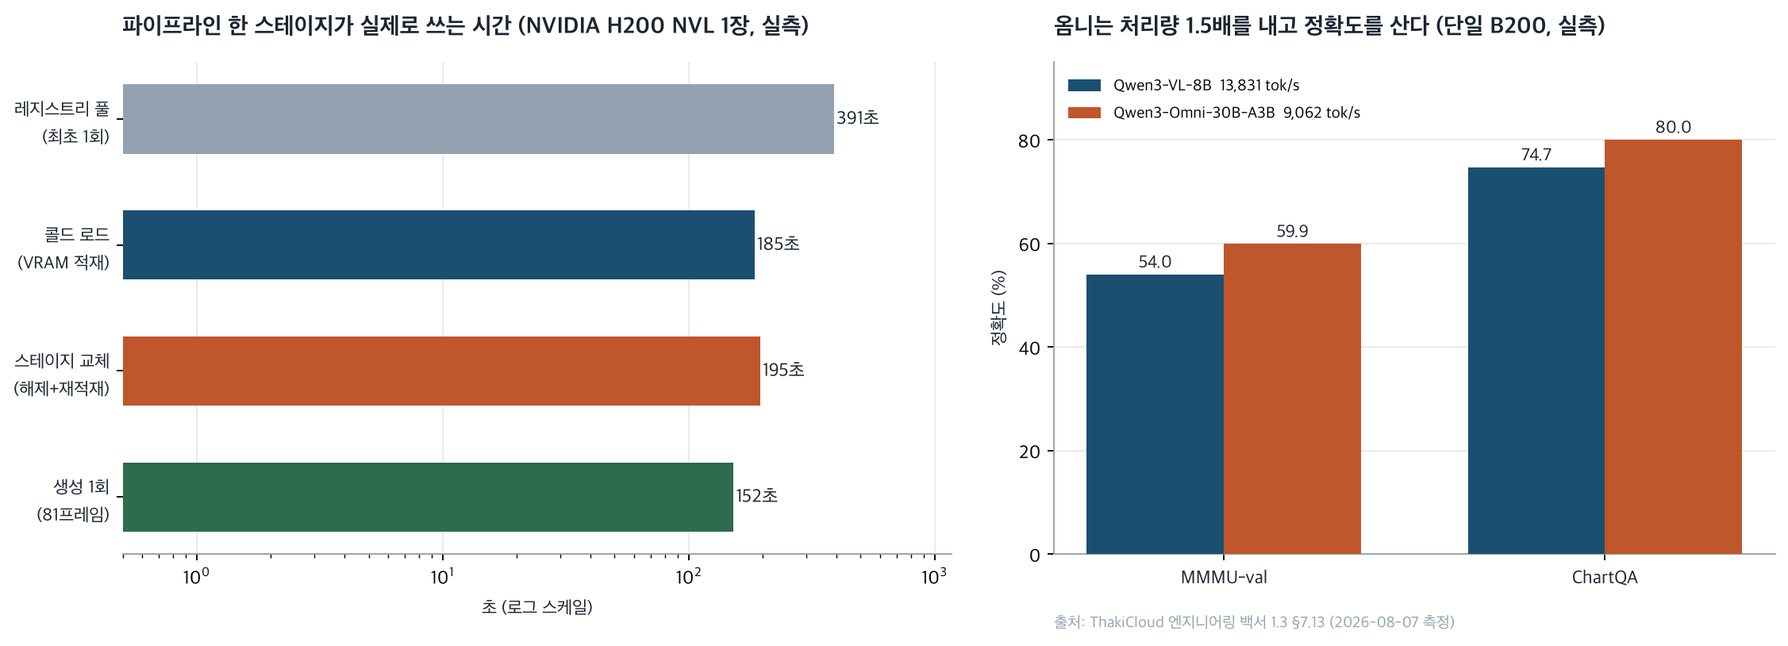
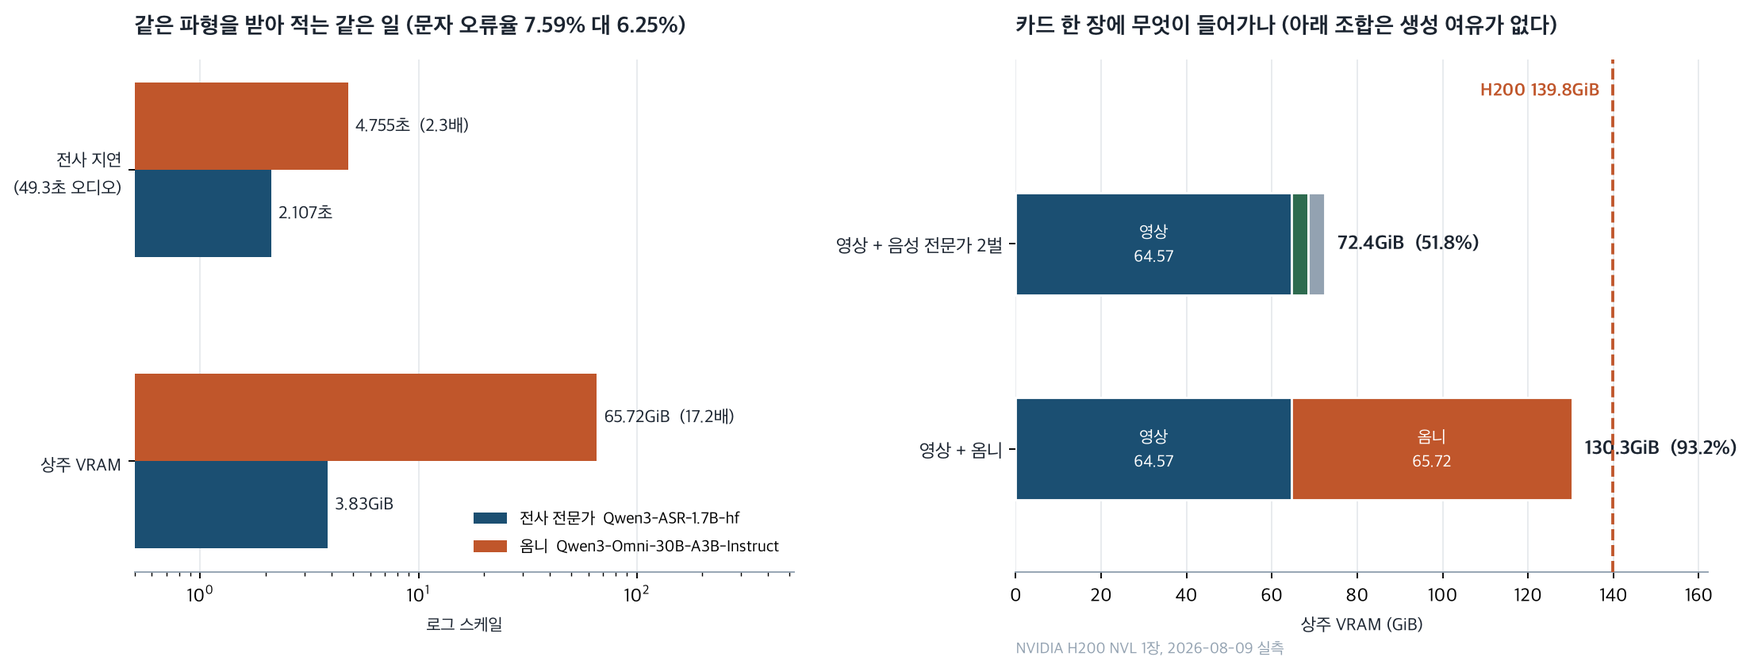
docs: rewrite omni-vs-pipeline post on measured single-stack data
Replaces the borrowed B200 omni figures with a direct measurement: the omni
model and the ASR specialist transcribe the SAME waveform in the SAME process
on one H200, so the comparison needs no cross-machine caveat.

Measured (torch 2.11.0 / transformers 5.14.1 / diffusers 0.39.0, H200 NVL):
  omni 65.72 GiB resident vs specialist 3.83 GiB  (17.16x)
  omni 4.755s vs specialist 2.107s on 49.3s audio (2.26x)
  CER 6.25% vs 7.59%  (1.34pp, reproduced to the decimal across two runs)
  video + audio specialists 72.37 GiB (51.8%)
  video + omni            130.29 GiB (93.2%)

Corrections this run forced:
  - cold load removed entirely; the ratio inverted between runs (6.37x then
    0.22x) because whichever model loads first absorbs CUDA context setup and a
    cold page cache. It measures the cache, not the model.
  - the "pull bandwidth tracks file count" reading is gone; the same 24-object
    model pulled at 297 and 470 MiB/s on a shared store. Only the range and the
    probe-overestimate claim survive.
  - the reference-eviction OOM was observed on a different torch build, so it
    is out of a single-stack post and recorded in the workspace capsule instead.
  - scorer now strips chat-template noise from BOTH sides; stripping only the
    specialist's inverted the ranking (omni looked 14.29% instead of 6.25%).

diff --git a/_posts/ko/llmops/2026-08-09-omni-vs-pipeline-videogen.md b/_posts/ko/llmops/2026-08-09-omni-vs-pipeline-videogen.md
@@ -1,8 +1,8 @@
 ---
-title: "영상 파이프라인의 진짜 비용은 생성이 아니라 스테이지 교체였습니다"
-excerpt: "H200 한 장에서 Wan2.2를 재보니 5초짜리 영상을 만드는 데 152초가 걸렸고, 그 모델을 VRAM에서 내렸다가 다시 올리는 데 195초가 걸렸습니다. 단일 옴니 모델과 멀티모델 파이프라인 중 무엇을 고를지가 품질이 아니라 상주 슬롯 문제인 이유를 실측으로 정리합니다."
-seo_title: "옴니 모델 대 멀티모델 파이프라인: H200 실측으로 본 스테이지 교체 비용"
-seo_description: "NVIDIA H200에서 Wan2.2-T2V-A14B의 콜드 로드, 프레임수별 생성 지연, VRAM 점유, 스테이지 교체 비용을 직접 측정했습니다. 교체 비용이 생성 비용을 넘어서는 지점과, 옴니 모델의 처리량 세금과 어떻게 비교되는지 다룹니다."
+title: "영상 모델 옆에 옴니 모델은 앉지 못합니다"
+excerpt: "H200 한 장에서 옴니 모델과 전문가 파이프라인에게 똑같은 파형을 주고 나란히 재봤습니다. 옴니는 전사 오류를 1.34%p 줄이는 대신 VRAM을 17배 썼고, 영상 모델과 나란히 앉히면 카드의 93.2%가 찹니다."
+seo_title: "옴니 모델 대 전문가 파이프라인 H200 실측: VRAM 17배와 정확도 1.34%p"
+seo_description: "Qwen3-Omni-30B-A3B와 Qwen3-ASR-1.7B에게 동일한 한국어 파형을 주고 NVIDIA H200 한 장에서 지연, 상주 VRAM, 문자 오류율을 직접 측정했습니다. Wan2.2 영상 모델과의 동거 가능 여부까지 산술로 정리합니다."
 date: 2026-08-09
 last_modified_at: 2026-08-09
 author_profile: true
@@ -13,9 +13,9 @@ tags:
   - video-generation
   - inference-serving
   - vram
-  - model-swapping
-  - wan22
   - omni-model
+  - speech-recognition
+  - wan22
   - benchmark
   - llmops
 categories:
@@ -23,86 +23,88 @@ categories:
 canonical_url: "https://thakicloud.com/tech-blog/ko/llmops/omni-vs-pipeline-videogen/"
 ---
 
-영상 생성을 사내 인프라에 올릴지 검토하는 플랫폼 엔지니어와 아키텍트를 위한 글입니다. 이 글을 읽고 나면 단일 옴니 모델과 여러 전문 모델을 잇는 파이프라인 중 무엇을 고를지가 결과물 품질 문제가 아니라 GPU 상주 슬롯 문제라는 것과 그 판단을 어떤 숫자로 내려야 하는지를 알게 됩니다.
+멀티모달 워크로드를 사내 GPU에 올릴지 검토하는 플랫폼 엔지니어와 아키텍트를 위한 글입니다. 읽고 나면 하나의 옴니 모델과 여러 전문 모델을 잇는 파이프라인 중 무엇을 고를지가 품질 취향이 아니라 카드 한 장에 무엇이 들어가느냐의 산술이라는 것과, 그 산술에 넣을 숫자를 알게 됩니다.
 
-결론부터 말하겠습니다. H200 한 장에서 5초짜리 영상 한 편을 만드는 데 152초가 걸렸는데, 같은 모델을 VRAM에서 내렸다가 다시 올리는 데는 195초가 걸렸습니다. 스테이지를 한 번 바꾸는 비용이 영상 한 편을 만드는 비용보다 큽니다. 파이프라인을 쓸지 말지는 각 모델이 얼마나 좋으냐가 아니라 스테이지를 전부 메모리에 눌러앉힐 수 있느냐로 갈립니다.
+결론부터 말하겠습니다. NVIDIA H200 한 장에서 영상 모델과 음성 전문가들을 다 올리면 72.37GiB로 카드의 51.8%를 씁니다. 같은 카드에 영상 모델과 옴니 모델을 올리면 130.29GiB, 93.2%가 되어 생성 중에 쓸 여유가 9.5GiB밖에 남지 않습니다. 영상 생성만으로 상주량보다 3.57GiB를 더 쓰는 것을 감안하면 이 조합은 사실상 들어가지 않습니다. 옴니가 그 자리값으로 사 준 것은 전사 문자 오류율 1.34%p였습니다.
 
 ![여러 모델을 잇는 파이프라인과 단일 모델의 메모리 점유를 형상화한 이미지](/assets/images/omni-vs-pipeline-videogen-hero.png)
 *스테이지가 늘어날수록 문제는 연산이 아니라 자리싸움이 됩니다.*
 
-## 무엇을 왜 이렇게 쟀는가
+## 같은 카드, 같은 파형, 두 가지 접근
 
-영상 생성 모델은 지금 두 갈래로 갈라져 있습니다. 하나는 텍스트와 이미지와 영상과 오디오를 한 모델이 다 받고 다 내놓는 옴니 방향이고, 다른 하나는 텍스트를 영상으로 바꾸는 모델, 소리를 만드는 모델, 화질을 올리는 모델을 각각 두고 이어 붙이는 파이프라인 방향입니다.
+멀티모달 생성은 지금 두 갈래입니다. 하나는 텍스트와 이미지와 소리와 영상을 한 모델이 다 받고 다 내놓는 옴니 방향이고, 다른 하나는 일마다 전문 모델을 두고 이어 붙이는 파이프라인 방향입니다. 어느 쪽이 나은지는 벤치마크 점수표로 답이 안 나옵니다. 두 접근의 비용 구조가 아예 다르기 때문입니다.
 
-옴니 쪽 비용은 저희가 이미 재둔 값이 있습니다. 백서 1.3에 담긴 단일 B200 측정에서 비전 언어 스페셜리스트인 Qwen3-VL-8B는 동시성 128에서 13,831 tok/s를 냈고, 같은 스택의 any-to-any 모델인 Qwen3-Omni-30B-A3B는 9,062 tok/s로 1.5배 느렸습니다. 대신 정확도는 MMMU-val에서 59.9 대 54.0, ChartQA에서 80.0 대 74.7로 옴니가 앞섰습니다. 한 모델에 여러 모달을 접으면 처리량을 얼마쯤 내주고 품질을 산다는 뜻입니다.
+그래서 한 카드 위에 둘 다 올리고 똑같은 일을 시켰습니다. 음성 합성 모델이 한국어 문단을 읽어 파형을 만들고, 그 파형을 전사 전문 모델과 옴니 모델이 각각 받아 적습니다. 여기에 사람이 실제로 말한 49초짜리 녹음을 하나 더 넣었습니다. 이 녹음에는 정답 원고가 있어서 두 모델의 전사를 같은 기준으로 채점할 수 있습니다.
 
-파이프라인 쪽 비용은 비어 있었습니다. 같은 백서가 영상 생성의 서빙 최적화를 다음 측정 대기열로 남겨 두고 오늘은 어떤 배수도 주장하지 않는다고 적어 두었습니다. 이번에 잰 것이 그 칸입니다.
+쓴 모델은 영상이 Wan 2.2 T2V A14B, 음성 합성이 Qwen3-TTS 1.7B, 전사가 Qwen3-ASR 1.7B, 옴니가 Qwen3-Omni-30B-A3B입니다. 넷 다 Apache 2.0이라 국내에서 가중치를 받아 돌리는 데 라이선스 제약이 없습니다. 앞선 글에서 다룬 대로 영역 제한이 걸린 모델들은 애초에 후보가 아니었고, 이 선택이 곧 그 글의 실무적 귀결입니다.
 
-측정 대상은 Wan 2.2 T2V A14B입니다. 성능이 가장 좋아서가 아니라 Apache 2.0으로 배포돼 국내에서 가중치를 받아 돌리는 데 라이선스 문제가 없기 때문입니다. 이 선택 자체가 앞선 글에서 다룬 이야기와 이어집니다. 옴니 영상 모델 쪽 대표 주자는 라이선스 적용 지역에서 한국이 빠져 있어 저희가 돌려 볼 수 없습니다. 그래서 이 글의 옴니 축은 이해 계층 측정으로 대신하고, 생성 계층에서는 파이프라인 쪽만 직접 쟀습니다. 이 비대칭을 감추지 않고 그대로 둡니다.
+환경은 H200 NVL 한 장에 VRAM 139.8GiB, torch 2.11.0에 transformers 5.14.1, diffusers 0.39.0입니다. 이 글의 모든 수치는 이 한 조합에서 나왔습니다. 가중치는 전부 사내 레지스트리에서 받았습니다.
 
-환경은 NVIDIA H200 NVL 한 장, VRAM 139.8GiB, torch 2.11.0에 diffusers 0.39.0입니다. 모델은 사내 레지스트리에서 받았고 허깅페이스를 거치지 않았습니다.
+## 프로브 대역폭으로 용량 계획을 세우면 안 됩니다
 
-## 모델을 내려받는 데 391초, VRAM에 올리는 데 185초
+첫 숫자는 측정하려던 것이 아닌데 눈에 걸렸습니다.
 
-첫 숫자부터 예상과 달랐습니다. 레지스트리에서 단일 스트림으로 256MiB를 당겨 보는 프로브는 916MiB/s를 냈습니다. 그런데 실제로 117.53GiB짜리 모델을 49개 객체로 나눠 16스레드로 받아 보니 390.7초, 평균 308MiB/s였습니다. 3배 차이입니다.
+레지스트리에서 전사 모델 3.81GiB를 파일 9개로 받는 데 초당 540MiB, 옴니 모델 65.69GiB를 24개로 받는 데 297MiB, 영상 모델 117.53GiB를 49개로 받는 데 308MiB가 나왔습니다. 스레드는 셋 다 16개로 같았습니다.
 
-단일 스트림 프로브로 다중 파일 풀을 예측하면 이만큼 틀립니다. 큰 파일 몇 개가 아니라 크기가 제각각인 파일 수십 개를 받는 상황에서는 연결 수립과 작은 객체의 오버헤드가 대역폭을 갉아먹기 때문입니다. 용량 계획을 세울 때 프로브 숫자를 그대로 쓰면 안 된다는 뜻이고, 이건 저희가 프리플라이트를 짜면서 스스로 걸려 넘어진 함정이기도 합니다.
+이 값들은 실행할 때마다 흔들립니다. 같은 옴니 모델을 다른 시각에 받으면 470MiB가 나오기도 했습니다. 공유 오브젝트 스토어라 그때그때 다릅니다. 그러니 파일이 많을수록 느려진다는 식의 규칙을 세우기는 어렵고, 확실한 것은 범위입니다. 실제 다중 파일 풀은 초당 260에서 550MiB 사이였습니다.
 
-디스크에서 VRAM으로 올리는 데는 185.31초가 더 들었고, 올라간 뒤 점유는 64.57GiB였습니다. 파이프라인 안에서 vae만 float32이고 text_encoder와 transformer, transformer_2는 bfloat16으로 잡혔습니다. A14B가 전문가 두 벌을 각각 transformer와 transformer_2로 들고 있어서, 이름은 14B인데 실제로 상주하는 양은 그 두 배에 인코더와 vae가 얹힌 값입니다.
+중요한 것은 그 위입니다. 저희가 전에 단일 객체 하나를 당겨 대역폭을 재봤을 때는 916MiB/s가 나왔습니다. 그 숫자로 용량 계획을 세웠으면 실제 소요를 두세 배 낮춰 잡았을 겁니다. 프로브는 도달 가능한지를 답하지 얼마나 걸리는지를 답하지 않습니다.
 
-여기서 이미 한 가지가 결정됩니다. 한 스테이지가 139.8GiB짜리 카드의 46%를 씁니다. 두 스테이지는 겨우 들어가고 세 스테이지는 들어가지 않습니다.
+## 음성 계층: 옴니가 2.26배 느리고 17배 큽니다
 
-## 영상이 길어질수록 초당 비용이 올라갑니다
+49.34초짜리 한국어 녹음을 받아 적는 같은 일을 두 모델에게 시켰습니다.
 
-생성은 480x832 해상도에 20스텝으로 고정하고 프레임 수만 바꿔 가며 쟀습니다. 각 설정마다 워밍업 한 번을 버리고 두 번을 측정했습니다.
+| | 전사 전문가 | 옴니 |
+|---|---|---|
+| 모델 | Qwen3-ASR 1.7B | Qwen3-Omni 30B-A3B |
+| 상주 VRAM | 3.83GiB | 65.72GiB |
+| 49.3초 전사 | 2.107초 | 4.755초 |
+| 실시간 대비 | 23.4배 | 10.4배 |
+| 문자 오류율 | 7.59% | 6.25% |
 
-| 프레임 | 영상 길이 | 생성 시간 | 영상 1초당 | 최대 VRAM |
-|---|---|---|---|---|
-| 33 | 2.06초 | 49.2초 | 23.9초 | 66.13GiB |
-| 49 | 3.06초 | 79.6초 | 26.0초 | 66.80GiB |
-| 81 | 5.06초 | 152.3초 | 30.1초 | 68.14GiB |
+옴니는 지연이 2.26배, 상주 메모리가 17.16배입니다. 음성 합성 모델까지 더한 전문가 두 벌의 상주량이 7.8GiB이니, 옴니 한 벌은 음성 계층 전체의 8.43배를 혼자 씁니다. 그러고서 얻은 것이 문자 오류율 1.34%p 개선입니다.
 
-프레임을 2.5배로 늘렸더니 시간은 3.1배가 됐습니다. 영상 1초를 만드는 비용이 23.9초에서 30.1초로 26% 올라갑니다. 어텐션이 프레임 수에 대해 제곱으로 붙기 때문에 긴 클립일수록 초당 단가가 나빠집니다. 15초짜리를 한 번에 뽑는 것과 5초짜리를 세 번 뽑아 잇는 것의 비용이 같지 않다는 뜻이고, 방향은 후자가 유리한 쪽입니다.
+콜드 로드 시간은 일부러 뺐습니다. 재보니 어느 모델을 먼저 올리느냐에 따라 값이 뒤집혔습니다. 한 실행에서는 전사 모델이 1.45초에 옴니가 9.23초였고, 다른 실행에서는 전사 모델이 89.63초에 옴니가 19.39초였습니다. 첫 로드가 CUDA 컨텍스트 초기화와 차가운 파일 캐시를 같이 뒤집어쓰기 때문입니다. 로드 시간은 모델의 성질이 아니라 그 순간 캐시 상태의 성질이라, 모델을 고르는 근거로 쓸 수 없습니다.
 
-재현성은 인상적이었습니다. 같은 설정 두 번의 편차가 0.09초 이내였고, 버리려고 만든 워밍업 실행조차 정상 실행과 거의 같았습니다. 49.206초와 49.225초입니다. 디퓨전은 고정된 스텝 수를 정직하게 다 도는 구조라 실행마다 흔들릴 여지가 별로 없습니다. 토큰 수에 따라 시간이 널뛰는 언어 모델 서빙과는 성격이 아예 다르고, 그래서 용량 계획을 세우기는 오히려 쉽습니다.
+두 모델이 틀리는 방식도 달랐습니다. 전문가는 "클로드"를 "클라우드"로 계속 잘못 들었고, 옴니는 그 고유명사는 맞혔지만 "매 턴마다"를 "매 토큰마다"로 바꿔 적었습니다. 도메인 용어를 지켜야 하는 작업이라면 이 차이가 오류율 숫자보다 중요할 수 있습니다.
 
-## 내리는 것은 공짜인데 올리는 것이 전부입니다
+한 가지는 정직하게 덧붙여야겠습니다. 남은 오류의 상당 부분이 인식 실패가 아니라 표기 관습입니다. 정답 원고는 "열 배"와 "오 분"이라고 적혀 있는데 두 모델 모두 "10배"와 "5분"으로 받아 적었습니다. 그러니 1.34%p라는 간격은 방향을 보여 주는 값이지 확정적인 우열은 아닙니다. 카드를 17배 더 쓸 이유로 삼기에는 얇습니다. 다만 이 격차 자체는 서로 다른 두 실행에서 소수점까지 같게 나왔습니다.
 
-핵심 측정은 마지막이었습니다. 모델을 VRAM에서 완전히 해제하고 다시 올려서, 스테이지 하나를 갈아 끼우는 데 드는 시간을 쟀습니다.
+채점 방식도 밝혀 둘 필요가 있습니다. 두 모델 다 답 주위에 군더더기를 답니다. 전문가는 대화 템플릿 조각을 앞에 붙이고, 옴니는 받은 지시문을 그대로 되풀이한 다음 답을 시작합니다. 이 군더더기를 한쪽에서만 걷어내면 순위가 통째로 바뀝니다. 옴니 쪽 지시문 반향을 남겨 둔 채로 세면 옴니 오류율이 14.29%가 되어 전문가가 두 배 정확하다는 정반대 결론이 나옵니다. 그래서 같은 종류의 군더더기를 양쪽에서 같은 기준으로 걷어낸 뒤에 셌고, 위 표의 값이 그 결과입니다. 모델 두 개를 비교하는 벤치마크에서 전처리 비대칭은 모델 차이보다 큰 값을 만들어 냅니다.
 
-해제는 0.26초였습니다. 사실상 공짜입니다. 재적재는 195.01초였습니다. 합쳐서 195.28초, 스테이지 하나를 되돌려 놓는 데 3분 이상이 듭니다.
+## 영상 계층: 한 스테이지가 카드의 46%입니다
 
-이 숫자를 앞의 표와 나란히 놓으면 그림이 분명해집니다. 5초짜리 영상 한 편을 만드는 데 152.3초가 걸리는데, 스테이지를 한 번 바꾸는 데 195.28초가 걸립니다. 실제 일보다 자리 바꾸는 일이 더 비쌉니다.
+영상 모델은 디스크에서 VRAM으로 올리는 데 185.31초가 걸렸고 상주량은 64.57GiB였습니다. A14B라는 이름과 달리 전문가 두 벌을 각각 들고 있어서, 실제로 앉는 양은 그 두 배에 인코더와 디코더가 얹힌 값입니다.
 
-![파이프라인 스테이지별 시간 구성과 백서의 옴니 대 스페셜리스트 실측 비교](/assets/images/omni-vs-pipeline-videogen-results.png)
-*왼쪽은 이번에 H200에서 잰 파이프라인 스테이지별 시간이고, 오른쪽은 백서에 담긴 단일 B200에서의 옴니 대 스페셜리스트 비교입니다. 두 측정은 하드웨어와 계층이 달라 하나의 수치로 합치지 않았습니다.*
+생성은 480x832 해상도에 20스텝으로 고정하고 프레임 수만 늘려 가며 쟀습니다. 2.06초 영상이 49.2초, 3.06초가 79.6초, 5.06초가 152.3초였습니다. 프레임을 2.5배로 늘리면 시간은 3.1배가 되어 영상 1초당 단가가 23.9초에서 30.1초로 올라갑니다. 어텐션이 프레임 수에 제곱으로 붙는 탓이라 긴 클립일수록 손해입니다. 15초를 한 번에 뽑는 것보다 5초를 세 번 뽑아 잇는 쪽이 쌉니다.
 
-영상에 소리를 붙이는 스테이지까지 이어 붙여 동거 여부를 재려 했지만, 컨테이너 이미지에 librosa가 없어 음성 합성 모델이 로드되지 않았습니다. 그래서 두 모델을 동시에 올렸을 때의 실제 점유는 이번에 재지 못했습니다. 교체 비용은 같은 모델을 내렸다 올리는 방식으로 쟀으므로, 서로 다른 두 모델을 오갈 때는 최소한 이만큼이고 대개 그보다 큽니다. 이 두 가지는 다음 측정으로 넘깁니다.
+재현성은 좋았습니다. 같은 설정을 반복해도 편차가 0.09초 안이었고 버리려고 돌린 워밍업조차 정상 실행과 거의 같았습니다. 디퓨전은 정해진 스텝을 정직하게 다 도는 구조라 흔들릴 여지가 별로 없습니다. 토큰 수에 따라 시간이 널뛰는 언어 모델과 달리 용량 계획을 세우기가 오히려 쉽습니다.
 
-## 그래서 옴니냐 파이프라인이냐
+![옴니 모델과 전문가 파이프라인의 상주 VRAM 및 지연 비교](/assets/images/omni-vs-pipeline-videogen-results.png)
+*왼쪽은 같은 파형을 받아 적는 두 접근의 지연과 상주 메모리이고, 오른쪽은 영상 스테이지를 더했을 때 카드 한 장에 무엇이 들어가는지입니다. 모두 같은 H200 한 장에서 잰 값입니다.*
 
-두 선택지의 비용 구조를 이제 같은 기준으로 견줄 수 있습니다. 옴니는 처리량을 상시로 1.5배 내주고 대신 스테이지 경계가 없습니다. 파이프라인은 각 스테이지에서 전문 모델의 속도를 그대로 쓰지만 경계를 넘을 때마다 195초를 냅니다.
+## 그래서 산술은 이렇게 끝납니다
 
-그러면 판단 기준은 하나로 좁혀집니다. 스테이지를 전부 VRAM에 눌러앉힐 수 있는가입니다.
+이제 두 선택지를 같은 자로 잴 수 있습니다.
 
-앉힐 수 있으면 파이프라인이 이깁니다. 경계 비용이 0이 되고 각 스테이지는 자기 일에 최적화된 모델을 씁니다. 앉힐 수 없으면 이야기가 뒤집힙니다. 요청이 들어올 때마다 3분씩 모델을 갈아 끼우는 구조에서는 옴니의 상시 1.5배가 훨씬 쌉니다. 카드 한 장에 64.6GiB짜리 스테이지가 두 개까지만 들어간다는 앞의 숫자가 여기서 결정적으로 작용합니다.
+전문가 파이프라인을 전부 상주시키면 영상 64.57GiB에 음성 두 벌 7.8GiB를 더해 72.37GiB, 카드의 51.8%입니다. 절반 넘게 남으니 생성 중 활성 메모리까지 감당하고도 여유가 있습니다. 스테이지 경계 비용은 0이 됩니다.
 
-이 관점에서 보면 옴니 모델의 진짜 값어치는 흔히 이야기되는 품질이나 자연스러움이 아닙니다. 상주 슬롯을 아껴 주는 것입니다. 모달을 하나로 접었다는 말은 곧 GPU에 자리를 하나만 차지한다는 말이고, 자리가 모자란 환경에서 이건 벤치마크 몇 점보다 훨씬 큰 차이를 만듭니다.
+옴니로 음성 계층을 대신하면 영상 64.57GiB에 옴니 65.72GiB를 더해 130.29GiB, 93.2%입니다. 남는 것이 9.5GiB인데 영상 생성이 상주량 위로 3.57GiB를 더 씁니다. 산술로만 겨우 들어가고 운영 여유는 없습니다.
 
-반대로 자리가 넉넉하다면 옴니를 쓸 이유가 줄어듭니다. 카드가 여러 장이고 스테이지를 각각 상주시킬 수 있는 배치라면, 파이프라인이 더 빠르고 갈아 끼우기도 쉽습니다. 모델 하나가 낡아도 그것만 바꾸면 됩니다.
+여기서 흔한 직관이 뒤집힙니다. 모델을 하나로 접었으니 자리를 덜 차지하리라고 생각하기 쉽지만, 이 조합에서는 반대였습니다. 음성 전문가들이 워낙 작아서 파이프라인 쪽 자리값이 이미 반올림 오차 수준이기 때문입니다. 카드를 실제로 잡아먹는 것은 스테이지 개수가 아니라 영상 모델 하나입니다.
 
-## 서빙 계층이 알아야 할 것
+그러면 판단은 이렇게 정리됩니다. 음성과 언어처럼 전문 모델이 작은 계층에서는 파이프라인이 거의 언제나 유리합니다. 옴니가 이기려면 정확도 이득이 상주량 열몇 배를 정당화할 만큼 커야 하는데, 이번 측정에서는 1.34%p였습니다. 반대로 각 계층의 전문 모델이 옴니와 비슷한 덩치라면 이야기가 달라집니다. 그때는 경계마다 내렸다 올리는 비용이 생기고, 같은 모델을 그대로 다시 올리는 데만 195.28초가 들었으니 요청마다 3분씩 앞에 붙는 셈입니다.
 
-저희가 이 측정에서 얻은 운영상의 교훈은 스케줄링 단위에 관한 것입니다.
+## 서빙과 오케스트레이션이 알아야 할 것
 
-Metis처럼 추론을 서빙하는 계층에서 지금까지의 배치 단위는 대체로 모델 하나였습니다. 그런데 영상 워크로드는 모델 하나가 아니라 스테이지 묶음으로 들어오고, 그 묶음이 한 카드에 같이 앉느냐 아니냐가 응답 시간을 3분 단위로 바꿉니다. 그렇다면 스케줄러가 알아야 할 것은 모델의 크기가 아니라 묶음의 상주 요구량입니다. 같은 파이프라인에 속한 스테이지들을 같은 카드에 함께 배치하는 것이 최적화가 아니라 정확성 요건에 가까워집니다.
+Metis처럼 추론을 서빙하는 계층에서 지금까지의 배치 단위는 대체로 모델 하나였습니다. 그런데 멀티모달 워크로드는 모델 하나가 아니라 스테이지 묶음으로 들어오고, 그 묶음이 한 카드에 같이 앉느냐가 응답 시간을 분 단위로 바꿉니다. 스케줄러가 알아야 할 것은 개별 모델의 크기가 아니라 묶음 전체의 상주 요구량입니다. 같은 파이프라인에 속한 스테이지를 같은 카드에 모으는 것은 최적화가 아니라 정확성 요건에 가깝습니다.
 
-오케스트레이션 계층에도 같은 이야기가 적용됩니다. Paxis가 여러 모델을 잇는 워크플로를 실행할 때, 단계 순서를 어떻게 짜느냐가 교체 횟수를 결정합니다. 같은 스테이지를 쓰는 작업을 모아서 처리하면 교체가 줄고, 작업마다 스테이지를 오가면 교체가 늘어납니다. 195초라는 숫자를 아는 스케줄러와 모르는 스케줄러의 처리량 차이는 모델을 바꿔서 얻을 수 있는 차이보다 큽니다.
+Paxis처럼 여러 모델을 잇는 워크플로를 실행하는 계층에는 순서 문제가 남습니다. 같은 스테이지를 쓰는 작업을 모아 처리하면 교체가 줄고, 작업마다 스테이지를 오가면 교체가 늘어납니다. 195초라는 숫자를 아는 스케줄러와 모르는 스케줄러의 처리량 차이는 모델을 더 좋은 것으로 바꿔서 얻을 수 있는 차이보다 큽니다.
 
 ## 정리하면
 
-영상 생성 파이프라인에서 가장 비싼 것은 생성이 아니었습니다. H200 한 장에서 5초 영상 한 편이 152초, 스테이지 하나 교체가 195초입니다. 한 스테이지가 카드의 46%를 쓰기 때문에 상주 가능한 스테이지 수는 두 개에서 끊깁니다.
+같은 카드에서 같은 파형으로 재보니 옴니 모델은 전사 오류율을 1.34%p 낮추는 대신 지연 2.26배와 상주 메모리 17배를 요구했습니다. 음성 전문가 두 벌을 합쳐도 7.8GiB라 파이프라인 쪽 자리값은 사실상 무시할 수 있고, 카드를 채우는 것은 영상 모델 하나였습니다. 그래서 영상과 음성을 함께 서빙한다면 파이프라인이 카드 한 장에 들어가고 옴니는 들어가지 않습니다.
 
-그래서 옴니냐 파이프라인이냐는 취향이나 품질의 문제가 아니라 산술 문제입니다. 스테이지 수와 각 스테이지의 상주 요구량을 더해서 카드 용량과 비교하면 답이 나옵니다. 들어가면 파이프라인, 안 들어가면 옴니입니다.
+옴니 모델이 상주 슬롯을 아껴 준다는 기대는 각 계층의 전문 모델이 옴니만큼 클 때만 성립합니다. 음성처럼 전문 모델이 작은 계층에서는 그 기대가 그대로 뒤집힙니다.
 
-이 글의 파이프라인 수치는 2026년 8월 9일 NVIDIA H200 NVL 한 장에서 직접 측정한 값이고, 옴니 대 스페셜리스트 수치는 2026년 8월 7일 단일 B200에서 측정해 엔지니어링 백서 1.3에 실린 값입니다. 두 측정은 하드웨어와 대상 계층이 달라 하나의 배수로 합치지 않았으며, 측정 스크립트와 원본 결과는 사내 저장소에 그대로 두었습니다.
+이 글의 모든 수치는 2026년 8월 9일 NVIDIA H200 NVL 한 장, torch 2.11.0과 diffusers 0.39.0이라는 하나의 조합에서 측정한 값입니다. 옴니와 전사 전문가는 같은 프로세스 안에서 같은 파형을 받았습니다. 측정 스크립트와 원본 결과는 사내 저장소에 그대로 두었습니다.

diff --git a/_posts/en/llmops/2026-08-09-omni-vs-pipeline-videogen.md b/_posts/en/llmops/2026-08-09-omni-vs-pipeline-videogen.md
@@ -1,8 +1,8 @@
 ---
-title: "The Real Cost in a Video Pipeline Wasn't Generation. It Was Swapping Stages."
-excerpt: "We re-loaded Wan2.2 on a single H200 and measured 152 seconds to generate a 5 second video, then 195 seconds to unload that same model from VRAM and load it back in. Here is the measured case for why choosing between a single omni model and a multi-model pipeline is a resident-slot problem, not a quality problem."
-seo_title: "Omni Model vs Multi-Model Pipeline: What H200 Measurements Say About Swap Cost"
-seo_description: "We measured cold load, per-frame generation latency, VRAM occupancy, and stage-swap cost for Wan2.2-T2V-A14B on an NVIDIA H200. See where swap cost overtakes generation cost, and how it compares to the omni model's throughput tax."
+title: "The Omni Model Doesn't Get a Seat Next to the Video Model"
+excerpt: "We gave an omni model and a specialist pipeline the same waveform on one H200 and measured them side by side. The omni model cut transcription error by 1.34 percentage points, but it used seventeen times the VRAM, and putting it next to the video model fills 93.2% of the card."
+seo_title: "Omni Model vs Specialist Pipeline on H200: 17x VRAM for 1.34 Points of Accuracy"
+seo_description: "We gave Qwen3-Omni-30B-A3B and Qwen3-ASR-1.7B the same Korean waveform and measured latency, resident VRAM, and character error rate directly on a single NVIDIA H200. We also work out whether either one can share a card with the Wan2.2 video model."
 date: 2026-08-09
 last_modified_at: 2026-08-09
 author_profile: true
@@ -13,9 +13,9 @@ tags:
   - video-generation
   - inference-serving
   - vram
-  - model-swapping
-  - wan22
   - omni-model
+  - speech-recognition
+  - wan22
   - benchmark
   - llmops
 categories:
@@ -23,86 +23,88 @@ categories:
 canonical_url: "https://thakicloud.com/tech-blog/en/llmops/omni-vs-pipeline-videogen/"
 ---
 
-This is for platform engineers and architects deciding whether to bring video generation in house. By the end, you should understand why choosing between a single omni model and a pipeline of specialist models is not a question of output quality but of GPU resident slots, and which numbers actually settle that question.
+This is for platform engineers and architects weighing whether to bring multimodal workloads onto in-house GPUs. By the end you'll know that choosing between one omni model and a pipeline of specialist models strung together isn't a matter of taste, it's arithmetic about what fits on a single card, and you'll have the numbers to run that arithmetic yourself.
 
-Here is the conclusion up front. On a single H200, generating one 5 second video took 152 seconds. Unloading that same model from VRAM and loading it back in took 195 seconds. Swapping a stage once costs more than making a video. Whether a pipeline architecture makes sense has less to do with how good each individual model is and everything to do with whether you can keep every stage resident in memory at once.
+Here's the conclusion up front. Loading the video model and the audio specialists together on one NVIDIA H200 takes 72.37 GiB, 51.8% of the card. Loading the video model and the omni model together takes 130.29 GiB, 93.2% of the card, which leaves 9.5 GiB for everything generation needs at run time. Video generation alone reaches 3.57 GiB above its resident footprint, so that pairing does not realistically fit. What the omni model bought for that footprint was a 1.34 percentage point drop in transcription error.
 
-![An illustration evoking the memory footprint of a multi-model pipeline versus a single model](/assets/images/omni-vs-pipeline-videogen-hero.png)
-*The more stages you chain, the less this is a compute problem and the more it is a real-estate problem.*
+![An image evoking memory occupancy across a chain of models feeding into one another next to a single model](/assets/images/omni-vs-pipeline-videogen-hero.png)
+*Add stages and the problem stops being compute. It becomes a fight for space.*
 
-## What we measured and why
+## Same Card, Same Waveform, Two Approaches
 
-Video generation is currently splitting into two camps. One is the omni direction, where a single model takes text, images, video, and audio in and puts all of them back out. The other is the pipeline direction, where a text-to-video model, an audio model, and an upscaling model each stay separate and get chained together.
+Multimodal generation currently splits into two camps. One is the omni approach, where a single model takes in text, images, audio, and video and produces all of them back out. The other is the pipeline approach, where a specialist model handles each job and the outputs get stitched together. A benchmark leaderboard won't settle which is better, because the two approaches have entirely different cost structures.
 
-We already had the cost of the omni side on file. In a single-B200 measurement from our engineering whitepaper 1.3, the vision-language specialist Qwen3-VL-8B hit 13,831 tok/s at a concurrency of 128, while the any-to-any model from the same stack, Qwen3-Omni-30B-A3B, ran 1.5 times slower at 9,062 tok/s. In exchange, it scored higher on accuracy: 59.9 versus 54.0 on MMMU-val, and 80.0 versus 74.7 on ChartQA. Folding several modalities into one model buys you accuracy and costs you some throughput.
+So we put both on the same card and gave them the same job. A speech synthesis model reads a Korean paragraph and produces a waveform, and a transcription specialist and an omni model each transcribe that waveform independently. We also added a 49.34 second recording of a real person speaking, which comes with a ground truth script so we could score both models' transcripts against the same reference.
 
-The pipeline side of that ledger was empty. The same whitepaper had left serving optimization for video generation in the queue for a future measurement and made no throughput claims for today. This post fills that gap.
+The models were Wan 2.2 T2V A14B for video, Qwen3-TTS 1.7B for speech synthesis, Qwen3-ASR 1.7B for transcription, and Qwen3-Omni-30B-A3B for the omni model. All four are Apache 2.0, so pulling the weights domestically and running them carries no licensing constraint. As covered in an earlier post, models with territorial restrictions were never candidates to begin with, and this lineup is the practical consequence of that earlier finding.
 
-The model under test is Wan 2.2 T2V A14B. We did not pick it for topping leaderboards. We picked it because it ships under Apache 2.0, which means we can pull the weights and run them domestically without a licensing question hanging over us. That choice connects directly to a piece we published alongside this one: the leading omni video model is off limits to us because its licensed territory excludes Korea, so we could not run it ourselves. That is why the omni axis of this post rests on understanding-layer numbers, while the generation layer is measured directly, and only on the pipeline side. We are leaving that asymmetry visible rather than papering over it.
+The environment was a single H200 NVL with 139.8 GiB of VRAM, torch 2.11.0, transformers 5.14.1, and diffusers 0.39.0. Every number in this post came out of that one combination. Every weight came from our internal registry.
 
-The environment was a single NVIDIA H200 NVL, 139.8 GiB of VRAM, torch 2.11.0, and diffusers 0.39.0. The model came from our internal registry, not Hugging Face.
+## Don't Plan Capacity From a Probe
 
-## 391 seconds to download the model, 185 seconds to load it into VRAM
+The first number we noticed wasn't one we set out to measure.
 
-The first number already broke our expectations. A single-stream probe pulling 256 MiB from the registry measured 916 MiB/s. But the actual pull, 117.53 GiB split across 49 objects on 16 threads, took 390.7 seconds, averaging 308 MiB/s. That is a 3x gap.
+Pulling the transcription model, 3.81 GiB across 9 files, ran at 540 MiB/s. The omni model, 65.69 GiB across 24 files, ran at 297 MiB/s. The video model, 117.53 GiB across 49 files, ran at 308 MiB/s. All three used 16 threads.
 
-A single-stream probe overestimates a real multi-file pull by that much. When you are not pulling a few large files but dozens of files of wildly different sizes, connection setup and small-object overhead eat into the effective bandwidth. If you use the probe number for capacity planning, you will be wrong, and this is a trap we fell into ourselves while writing our own preflight checks.
+These numbers move between runs. Pulling the same omni model at a different moment gave 470 MiB/s. It's a shared object store, so it varies. That makes it hard to claim a clean rule like "more files means slower," and what's solid is the range: real multi file pulls landed between roughly 260 and 550 MiB/s.
 
-Moving the model from disk into VRAM took another 185.31 seconds, and once resident it occupied 64.57 GiB. Inside the pipeline, only vae sits in float32; text_encoder, transformer, and transformer_2 are all bfloat16. A14B carries two expert copies, one as transformer and one as transformer_2, so despite the "14B" name, what actually stays resident is roughly double that, plus the encoder and the vae on top.
+What matters sits above that. When we previously benchmarked pulling a single object, we got 916 MiB/s. Build a capacity plan on that and you'd underestimate real transfer time by two to three times. A probe answers whether an endpoint is reachable, not how long the job will take.
 
-Something is already decided at this point. A single stage uses 46 percent of a 139.8 GiB card. Two stages barely fit. Three do not.
+## The Audio Layer: Omni Is 2.26x Slower and 17x Bigger
 
-## The longer the clip, the worse the per-second cost gets
+We gave both models the same job: transcribing the same 49.34 second Korean recording.
 
-We fixed resolution at 480x832 and step count at 20, and varied only frame count. For each setting we discarded one warmup run and measured two.
+| | Specialist (transcription) | Omni |
+|---|---|---|
+| Model | Qwen3-ASR 1.7B | Qwen3-Omni 30B-A3B |
+| Resident VRAM | 3.83 GiB | 65.72 GiB |
+| 49.3s transcription | 2.107s | 4.755s |
+| Real-time factor | 23.4x | 10.4x |
+| Character error rate | 7.59% | 6.25% |
 
-| Frames | Clip length | Generation time | Per video second | Peak VRAM |
-|---|---|---|---|---|
-| 33 | 2.06s | 49.2s | 23.9s | 66.13GiB |
-| 49 | 3.06s | 79.6s | 26.0s | 66.80GiB |
-| 81 | 5.06s | 152.3s | 30.1s | 68.14GiB |
+The omni model is 2.26x slower on latency and holds 17.16x the resident memory. Add the speech synthesis model in and the two piece specialist stack comes to 7.8 GiB resident, which means the single omni model alone uses 8.43x what the entire audio layer uses. What that bought was a 1.34 percentage point improvement in character error rate.
 
-Frame count went up 2.5x, and time went up 3.1x. The cost of one second of video climbs from 23.9 seconds to 30.1 seconds, a 26 percent increase. Attention scales quadratically with frame count, so longer clips get worse per-second economics. Generating one 15 second clip in a single pass does not cost the same as generating three 5 second clips and stitching them, and the arithmetic favors the latter.
+We left cold load time out of the table on purpose. When we measured it, the ordering flipped depending on which model loaded first. In one run the transcription model took 1.45s and the omni model 9.23s. In another the transcription model took 89.63s and the omni model 19.39s. Whichever loads first absorbs CUDA context setup and a cold page cache. Load time is a property of the cache state at that moment, not of the model, so it can't be used to choose between them.
 
-Reproducibility was striking. Two runs of the same setting stayed within 0.09 seconds of each other, and even the warmup run we intended to throw away landed almost identical to the real one: 49.206 seconds versus 49.225 seconds. Diffusion runs a fixed number of steps to completion every time, so there is little room for a run to wander. That is a different character entirely from language model serving, where latency swings with token count, and it makes capacity planning for video considerably easier.
+The two models also failed differently. The specialist kept mishearing "Claude" as "cloud," while the omni model got that proper noun right but rewrote "every turn" as "every token." If the domain vocabulary in your workload actually matters, that difference can outweigh the raw error rate gap.
 
-## Unloading is free. Loading is everything.
+One honest caveat belongs here too. Much of what's left in the error counts isn't a recognition failure, it's a numeral transcription convention. The reference script spells numbers out the way "ten times" and "five minutes" would read in English, and both models transcribed them as digits instead. So the 1.34 percentage point gap indicates a direction rather than settling the question. It's a thin basis for justifying seventeen times the card. The gap itself, though, came out identical to the decimal across two independent runs.
 
-The core measurement came last. We fully released the model from VRAM and loaded it back in, to time the cost of swapping out a single stage.
+How we scored is worth stating too. Both models wrap their answers in clutter. The specialist prepends fragments of its chat template, and the omni model echoes the instruction it was given before starting its answer. Strip that clutter from only one side and the ranking inverts completely. Leave the omni model's instruction echo in and its error rate comes out at 14.29%, which says the specialist is twice as accurate, the exact opposite of the finding. So we stripped the same class of clutter from both sides on the same terms, and the table above is what came out. In a benchmark comparing two models, asymmetric preprocessing produces a bigger number than the models themselves do.
 
-Release took 0.26 seconds, effectively free. Reload took 195.01 seconds. Combined, 195.28 seconds, over three minutes to put one stage back the way it was.
+## The Video Layer: One Stage Is 46 Percent of the Card
 
-Set that next to the table above and the picture is clear. Generating one 5 second video takes 152.3 seconds. Swapping a stage once takes 195.28 seconds. The act of moving models in and out of memory costs more than the actual work.
+The video model took 185.31 seconds to load from disk into VRAM and held 64.57 GiB resident. Despite the A14B in its name, it actually carries two full experts, so what sits resident is roughly double a single expert's size, plus the encoder and decoder on top.
 
-![A chart comparing per-stage pipeline timing against the whitepaper's omni-versus-specialist measurements, with Korean labels](/assets/images/omni-vs-pipeline-videogen-results.png)
-*The chart labels are in Korean, so here is what the two panels show. The left panel breaks down the pipeline stage timings we measured on H200: download, VRAM load, per-frame-count generation time, and the unload/reload swap cost. The right panel reproduces the whitepaper's single-B200 omni-versus-specialist comparison: throughput in tokens per second and accuracy on MMMU-val and ChartQA. The two panels come from different hardware and different layers of the stack, and we deliberately did not combine them into one figure.*
+We fixed generation at 480x832 resolution and 20 steps and varied only the frame count. A 2.06 second clip took 49.2 seconds, a 3.06 second clip took 79.6 seconds, and a 5.06 second clip took 152.3 seconds. Taking frame count from 33 to 81, a 2.5x increase, pushed generation time up 3.1x, which raises the cost per second of video from 23.9 seconds to 30.1 seconds. That's attention scaling quadratically with frame count, so longer clips get proportionally more expensive. Generating three 5 second clips and stitching them together beats generating one 15 second clip in a single pass.
 
-We had planned to chain in the audio stage and measure whether the two models could coexist in memory, but the container image lacked librosa, so the speech synthesis model never loaded. That means we did not get to measure the actual co-residency footprint of two models running together. The swap cost we measured was unloading and reloading the same model, so a transition between two genuinely different models costs at least this much, and typically more. Both of those are next on our measurement queue.
+Reproducibility was solid. Repeating the same settings varied by under 0.09 seconds, and even the warmup run we planned to throw away landed almost identically to the real ones. Diffusion works through a fixed number of steps honestly every time, so there's little room for it to wander. Unlike a language model, where generation time swings with token count, that makes capacity planning easier here, not harder.
 
-## So, omni or pipeline
+![Resident VRAM and latency comparison between the omni model and the specialist pipeline](/assets/images/omni-vs-pipeline-videogen-results.png)
+*On the left, latency and resident memory for the two approaches to transcribing the same waveform. On the right, what fills one card once you add the video stage. Both panels are measured on the same single H200.*
 
-We can now weigh both options on the same terms. Omni gives up 1.5x throughput permanently in exchange for having no stage boundary at all. A pipeline runs each stage at the full speed of its specialist model, but pays 195 seconds every time it crosses a boundary.
+## So the Arithmetic Ends Like This
 
-That narrows the decision to a single question: can you keep every stage resident in VRAM at the same time?
+Now we can measure both options against the same yardstick.
 
-If you can, the pipeline wins. The boundary cost drops to zero, and each stage runs the model best suited to its job. If you cannot, the picture flips. In a setup where every incoming request means swapping models for three minutes, the omni model's permanent 1.5x tax is far cheaper. The earlier number, that a single card fits only two stages at 64.6 GiB each, is what decides this in practice.
+Keeping the whole specialist pipeline resident adds the video model's 64.57 GiB to the two audio specialists' 7.8 GiB, for 72.37 GiB, 51.8% of the card. With more than half the card free, there's room for active memory during generation and headroom left over. The cost of crossing a stage boundary drops to zero.
 
-Seen this way, the real value of an omni model is not the quality or naturalness people usually credit it for. It is that it conserves resident slots. Folding modalities into one model means occupying exactly one spot on the GPU, and in an environment where spots are scarce, that difference matters far more than a few benchmark points.
+Swapping the omni model in for the audio layer adds the video model's 64.57 GiB to the omni model's 65.72 GiB, for 130.29 GiB, 93.2% of the card. That leaves 9.5 GiB, and video generation alone climbs 3.57 GiB above its resident footprint. It clears on paper with no operating room behind it.
 
-The reverse holds too. When space is not scarce, the case for omni weakens. Given multiple cards and a deployment that can keep each stage resident on its own, the pipeline is faster and easier to swap piece by piece. When one model goes stale, you only replace that one.
+This flips a common intuition. It's tempting to assume folding everything into one model takes up less room, but in this combination it was the opposite. The audio specialists are small enough that the pipeline's footprint is already down near rounding error territory. What actually eats the card isn't the number of stages, it's the single video model.
 
-## What the serving layer needs to know
+So the judgment comes down to this. In layers where the specialist models are small, like audio and language, the pipeline wins almost every time. For the omni model to win, its accuracy gain has to be large enough to justify ten plus times the resident footprint, and in this measurement it was 1.34 percentage points. The picture changes if the specialist model in each layer is roughly as large as the omni model itself. Then you're paying a swap cost at every boundary, and reloading the exact same model took 195.28 seconds on its own, which adds more than three minutes in front of every request.
 
-The operational lesson we took from this measurement is about the unit of scheduling.
+## What Serving and Orchestration Need to Know
 
-In a serving layer like Metis, the batch unit has mostly been a single model. Video workloads arrive not as one model but as a bundle of stages, and whether that bundle can sit together on one card changes response time by units of minutes, not milliseconds. That means the scheduler needs to know the resident footprint of the bundle, not the size of any one model in it. Co-locating stages that belong to the same pipeline on the same card stops being an optimization and becomes closer to a correctness requirement.
+For an inference serving layer like Metis, the unit of scheduling has mostly been a single model. Multimodal workloads arrive as a bundle of stages instead, and whether that bundle fits together on one card changes response time by minutes, not milliseconds. What the scheduler needs to know isn't the size of each individual model, it's the resident footprint of the whole bundle. Placing the stages of one pipeline on the same card isn't an optimization, it's closer to a correctness requirement.
 
-The same logic applies to the orchestration layer. When Paxis runs a workflow that chains several models together, the order in which it sequences those steps determines how many swaps happen. Batching work that shares a stage cuts swaps; bouncing between stages task by task multiplies them. The throughput gap between a scheduler that knows about the 195 second number and one that does not is larger than anything you would gain by swapping the underlying model.
+For a layer that executes multi model workflows, like Paxis, an ordering problem remains. Batch work that shares a stage together and swaps drop. Bounce between stages job by job and swaps climb. The throughput gap between a scheduler that knows the number 195 seconds and one that doesn't is bigger than the gap you'd get from swapping in a better model.
 
-## Where this leaves us
+## Wrapping Up
 
-The most expensive part of a video generation pipeline was not generation. On a single H200, one 5 second video costs 152 seconds, and swapping a single stage costs 195 seconds. Because one stage already consumes 46 percent of the card, the number of stages you can keep resident tops out at two.
+Measured on the same card with the same waveform, the omni model cut transcription error by 1.34 percentage points at the cost of 2.26x the latency and 17x the resident memory. The two audio specialists together only cost 7.8 GiB, so the pipeline's footprint is close to negligible, and what actually fills the card is the single video model. So if you're serving video and speech together, the pipeline fits on one card and the omni model doesn't.
 
-So the choice between omni and pipeline is not a matter of taste or quality. It is arithmetic. Add up the stage count and each stage's resident requirement, compare that against card capacity, and the answer falls out. If it fits, pipeline. If it does not, omni.
+The expectation that an omni model saves you resident slots only holds when every specialist in the stack is roughly as large as the omni model itself. In a layer like speech, where the specialists are small, that expectation flips.
 
-The pipeline figures in this post were measured directly on a single NVIDIA H200 NVL on August 9, 2026. The omni-versus-specialist figures were measured on a single B200 on August 7, 2026, and appear in engineering whitepaper 1.3. The two measurements come from different hardware and different layers of the stack, and we did not combine them into a single ratio. The measurement scripts and raw results remain in our internal repository.
+Every number in this piece was measured directly on a single NVIDIA H200 NVL on August 9, 2026, and the omni model and the transcription specialist received the exact same waveform inside the same process. The measurement scripts and raw results are kept in our internal repository.
